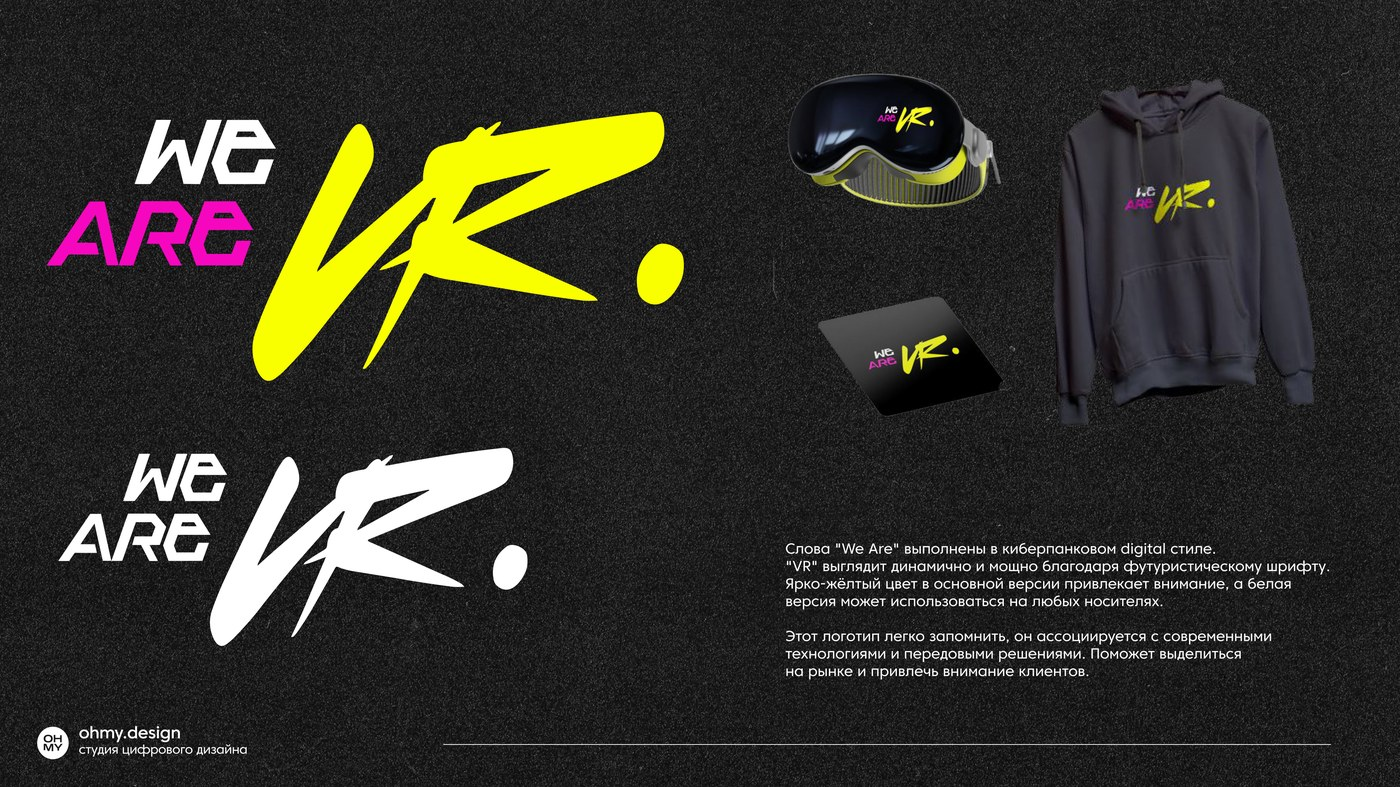
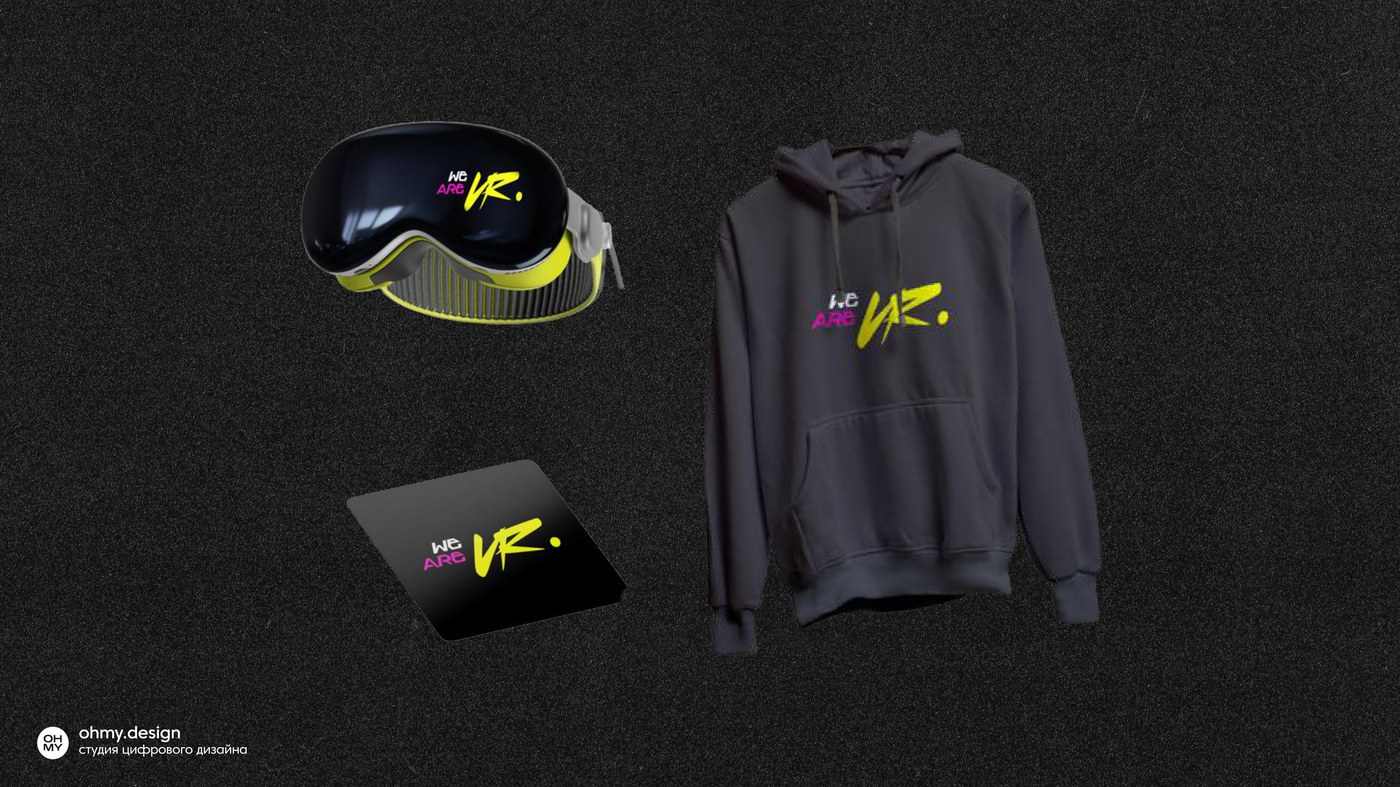
WE ARE VR: применение из нового PDF, убрал маскота, лого крупнее
Вторые слайды концептов — актуальные мокапы применения из WEAREVR.pdf
(кепка, худи, визитка, авто, футболка). Убрал блок с цветовыми
версиями маскота из «фирменного стиля» — по просьбе. Оба знака в
блоке «на тёмном/на жёлтом» увеличены (mark_w 88% → 96%).

Changed region(s): [[0.0307, 0.0915, 0.9521, 0.8844], [0.0307, 0.5489, 0.4607, 0.8234]]

diff --git a/docs/projects/wearevr/index.html b/docs/projects/wearevr/index.html
@@ -921,12 +921,12 @@ section.cta .fc:hover{background:var(--bg)}
 <section id="ident">
   <div class="sec-head rv">
     <div><span class="sec-idx">03 — знак</span><h2 class="sec-title">фирменный стиль</h2></div>
-    <span class="mono">знак и маскот</span>
+    <span class="mono">2 версии знака</span>
   </div>
 
-  <p class="lead rv" style="max-width:64ch;margin-top:clamp(28px,3.4vw,48px)">Логотип держит две версии&nbsp;— светлую часть слова и&nbsp;контрастный росчерк VR., чтобы работать и&nbsp;на&nbsp;тёмном интерьере клуба, и&nbsp;на&nbsp;светлой печати. Отдельно для&nbsp;соцсетей и&nbsp;мерча разработали маскота&nbsp;— персонажа в&nbsp;VR-гарнитуре, который меняет цвет под&nbsp;носитель, но&nbsp;всегда узнаётся по&nbsp;силуэту.</p>
+  <p class="lead rv" style="max-width:64ch;margin-top:clamp(28px,3.4vw,48px)">Логотип держит две версии&nbsp;— светлую часть слова и&nbsp;контрастный росчерк VR., чтобы работать и&nbsp;на&nbsp;тёмном интерьере клуба, и&nbsp;на&nbsp;светлой&nbsp;печати.</p>
 
-  <div class="marks rv" data-n="2" style="--mark-w:88%">
+  <div class="marks rv" data-n="2" style="--mark-w:96%">
     <div class="mark" style="background:#1F1F1F"><img src="/img/cases/wearevr/mark-dark.svg" alt="Логотип WE ARE VR: жёлто-белый на тёмном" loading="lazy"><span style="color:#FCFCFC;opacity:0.6">на тёмном</span></div>
     <div class="mark" style="background:#FBFF00"><img src="/img/cases/wearevr/mark-light.svg" alt="Логотип WE ARE VR: чёрно-фиолетовый на жёлтом" loading="lazy"><span style="color:#1E1E1E;opacity:0.55">на жёлтом</span></div>
   </div>
@@ -937,13 +937,6 @@ section.cta .fc:hover{background:var(--bg)}
     <div class="pal-i"><div class="pal-c" style="background:#2C48DE"></div><div class="pal-h">#2C48DE</div><div class="pal-n">синий</div><p class="pal-t">Дополнительный цвет на&nbsp;носителях.</p></div>
     <div class="pal-i"><div class="pal-c" style="background:#CACACA"></div><div class="pal-h">#CACACA</div><div class="pal-n">серый</div><p class="pal-t">Второстепенный текст и&nbsp;графика.</p></div>
     <div class="pal-i"><div class="pal-c" style="background:#1F1F1F"></div><div class="pal-h">#1F1F1F</div><div class="pal-n">почти чёрный</div><p class="pal-t">Фон клуба, сайта и&nbsp;мерча.</p></div>
-  </div>
-
-  <div class="tiles rv" data-n="4">
-    <figure class="tile"><img src="/img/cases/wearevr/mascot-1.jpg" alt="Маскот WE ARE VR: бело-фиолетовая версия" loading="lazy"><figcaption>бело-фиолетовая</figcaption></figure>
-    <figure class="tile"><img src="/img/cases/wearevr/mascot-2.jpg" alt="Маскот WE ARE VR: сине-фиолетовый градиент" loading="lazy"><figcaption>сине-фиолетовая</figcaption></figure>
-    <figure class="tile"><img src="/img/cases/wearevr/mascot-3.jpg" alt="Маскот WE ARE VR: фиолетовая версия для мерча" loading="lazy"><figcaption>для мерча</figcaption></figure>
-    <figure class="tile"><img src="/img/cases/wearevr/mascot-4.jpg" alt="Маскот WE ARE VR: жёлтая версия для соцсетей" loading="lazy"><figcaption>для соцсетей</figcaption></figure>
   </div>
 </section>
 

diff --git a/исходники/ohmy-case-wearevr.html b/исходники/ohmy-case-wearevr.html
@@ -921,12 +921,12 @@ section.cta .fc:hover{background:var(--bg)}
 <section id="ident">
   <div class="sec-head rv">
     <div><span class="sec-idx">03 — знак</span><h2 class="sec-title">фирменный стиль</h2></div>
-    <span class="mono">знак и маскот</span>
+    <span class="mono">2 версии знака</span>
   </div>
 
-  <p class="lead rv" style="max-width:64ch;margin-top:clamp(28px,3.4vw,48px)">Логотип держит две версии&nbsp;— светлую часть слова и&nbsp;контрастный росчерк VR., чтобы работать и&nbsp;на&nbsp;тёмном интерьере клуба, и&nbsp;на&nbsp;светлой печати. Отдельно для&nbsp;соцсетей и&nbsp;мерча разработали маскота&nbsp;— персонажа в&nbsp;VR-гарнитуре, который меняет цвет под&nbsp;носитель, но&nbsp;всегда узнаётся по&nbsp;силуэту.</p>
+  <p class="lead rv" style="max-width:64ch;margin-top:clamp(28px,3.4vw,48px)">Логотип держит две версии&nbsp;— светлую часть слова и&nbsp;контрастный росчерк VR., чтобы работать и&nbsp;на&nbsp;тёмном интерьере клуба, и&nbsp;на&nbsp;светлой&nbsp;печати.</p>
 
-  <div class="marks rv" data-n="2" style="--mark-w:88%">
+  <div class="marks rv" data-n="2" style="--mark-w:96%">
     <div class="mark" style="background:#1F1F1F"><img src="img/cases/wearevr/mark-dark.svg" alt="Логотип WE ARE VR: жёлто-белый на тёмном" loading="lazy"><span style="color:#FCFCFC;opacity:0.6">на тёмном</span></div>
     <div class="mark" style="background:#FBFF00"><img src="img/cases/wearevr/mark-light.svg" alt="Логотип WE ARE VR: чёрно-фиолетовый на жёлтом" loading="lazy"><span style="color:#1E1E1E;opacity:0.55">на жёлтом</span></div>
   </div>
@@ -937,13 +937,6 @@ section.cta .fc:hover{background:var(--bg)}
     <div class="pal-i"><div class="pal-c" style="background:#2C48DE"></div><div class="pal-h">#2C48DE</div><div class="pal-n">синий</div><p class="pal-t">Дополнительный цвет на&nbsp;носителях.</p></div>
     <div class="pal-i"><div class="pal-c" style="background:#CACACA"></div><div class="pal-h">#CACACA</div><div class="pal-n">серый</div><p class="pal-t">Второстепенный текст и&nbsp;графика.</p></div>
     <div class="pal-i"><div class="pal-c" style="background:#1F1F1F"></div><div class="pal-h">#1F1F1F</div><div class="pal-n">почти чёрный</div><p class="pal-t">Фон клуба, сайта и&nbsp;мерча.</p></div>
-  </div>
-
-  <div class="tiles rv" data-n="4">
-    <figure class="tile"><img src="img/cases/wearevr/mascot-1.jpg" alt="Маскот WE ARE VR: бело-фиолетовая версия" loading="lazy"><figcaption>бело-фиолетовая</figcaption></figure>
-    <figure class="tile"><img src="img/cases/wearevr/mascot-2.jpg" alt="Маскот WE ARE VR: сине-фиолетовый градиент" loading="lazy"><figcaption>сине-фиолетовая</figcaption></figure>
-    <figure class="tile"><img src="img/cases/wearevr/mascot-3.jpg" alt="Маскот WE ARE VR: фиолетовая версия для мерча" loading="lazy"><figcaption>для мерча</figcaption></figure>
-    <figure class="tile"><img src="img/cases/wearevr/mascot-4.jpg" alt="Маскот WE ARE VR: жёлтая версия для соцсетей" loading="lazy"><figcaption>для соцсетей</figcaption></figure>
   </div>
 </section>
 

diff --git a/cases.py b/cases.py
@@ -1062,24 +1062,18 @@ CASES = [
               ('concept-4.jpg','Концепт 4: применение на носителях')]}]},
 
  'ident':{
-   'idx':'знак','title':'фирменный стиль','mono':'знак и маскот',
+   'idx':'знак','title':'фирменный стиль','mono':'2 версии знака',
    'lead':'Логотип держит две версии — светлую часть слова и контрастный '
           'росчерк VR., чтобы работать и на тёмном интерьере клуба, и на '
-          'светлой печати. Отдельно для соцсетей и мерча разработали '
-          'маскота — персонажа в VR-гарнитуре, который меняет цвет под '
-          'носитель, но всегда узнаётся по силуэту.',
-   'mark_w':'88%',
+          'светлой печати.',
+   'mark_w':'96%',
    'marks':[('#1F1F1F','mark-dark.svg','Логотип WE ARE VR: жёлто-белый на тёмном','на тёмном'),
             ('#FBFF00','mark-light.svg','Логотип WE ARE VR: чёрно-фиолетовый на жёлтом','на жёлтом')],
    'colors':[('#FBFF00','жёлтый','Акцент, кнопки, слово VR. в логотипе.'),
              ('#BE04E3','фиолетовый','Слово ARE и вторичный акцент.'),
              ('#2C48DE','синий','Дополнительный цвет на носителях.'),
              ('#CACACA','серый','Второстепенный текст и графика.'),
-             ('#1F1F1F','почти чёрный','Фон клуба, сайта и мерча.')],
-   'tiles':[('mascot-1.jpg','Маскот WE ARE VR: бело-фиолетовая версия','бело-фиолетовая'),
-            ('mascot-2.jpg','Маскот WE ARE VR: сине-фиолетовый градиент','сине-фиолетовая'),
-            ('mascot-3.jpg','Маскот WE ARE VR: фиолетовая версия для мерча','для мерча'),
-            ('mascot-4.jpg','Маскот WE ARE VR: жёлтая версия для соцсетей','для соцсетей')]},
+             ('#1F1F1F','почти чёрный','Фон клуба, сайта и мерча.')]},
 
  'pains':['Семь несовпадающих аудиторий: игрок, родитель, организатор корпоратива — '
           'у каждого свой вопрос к одному сайту.',
